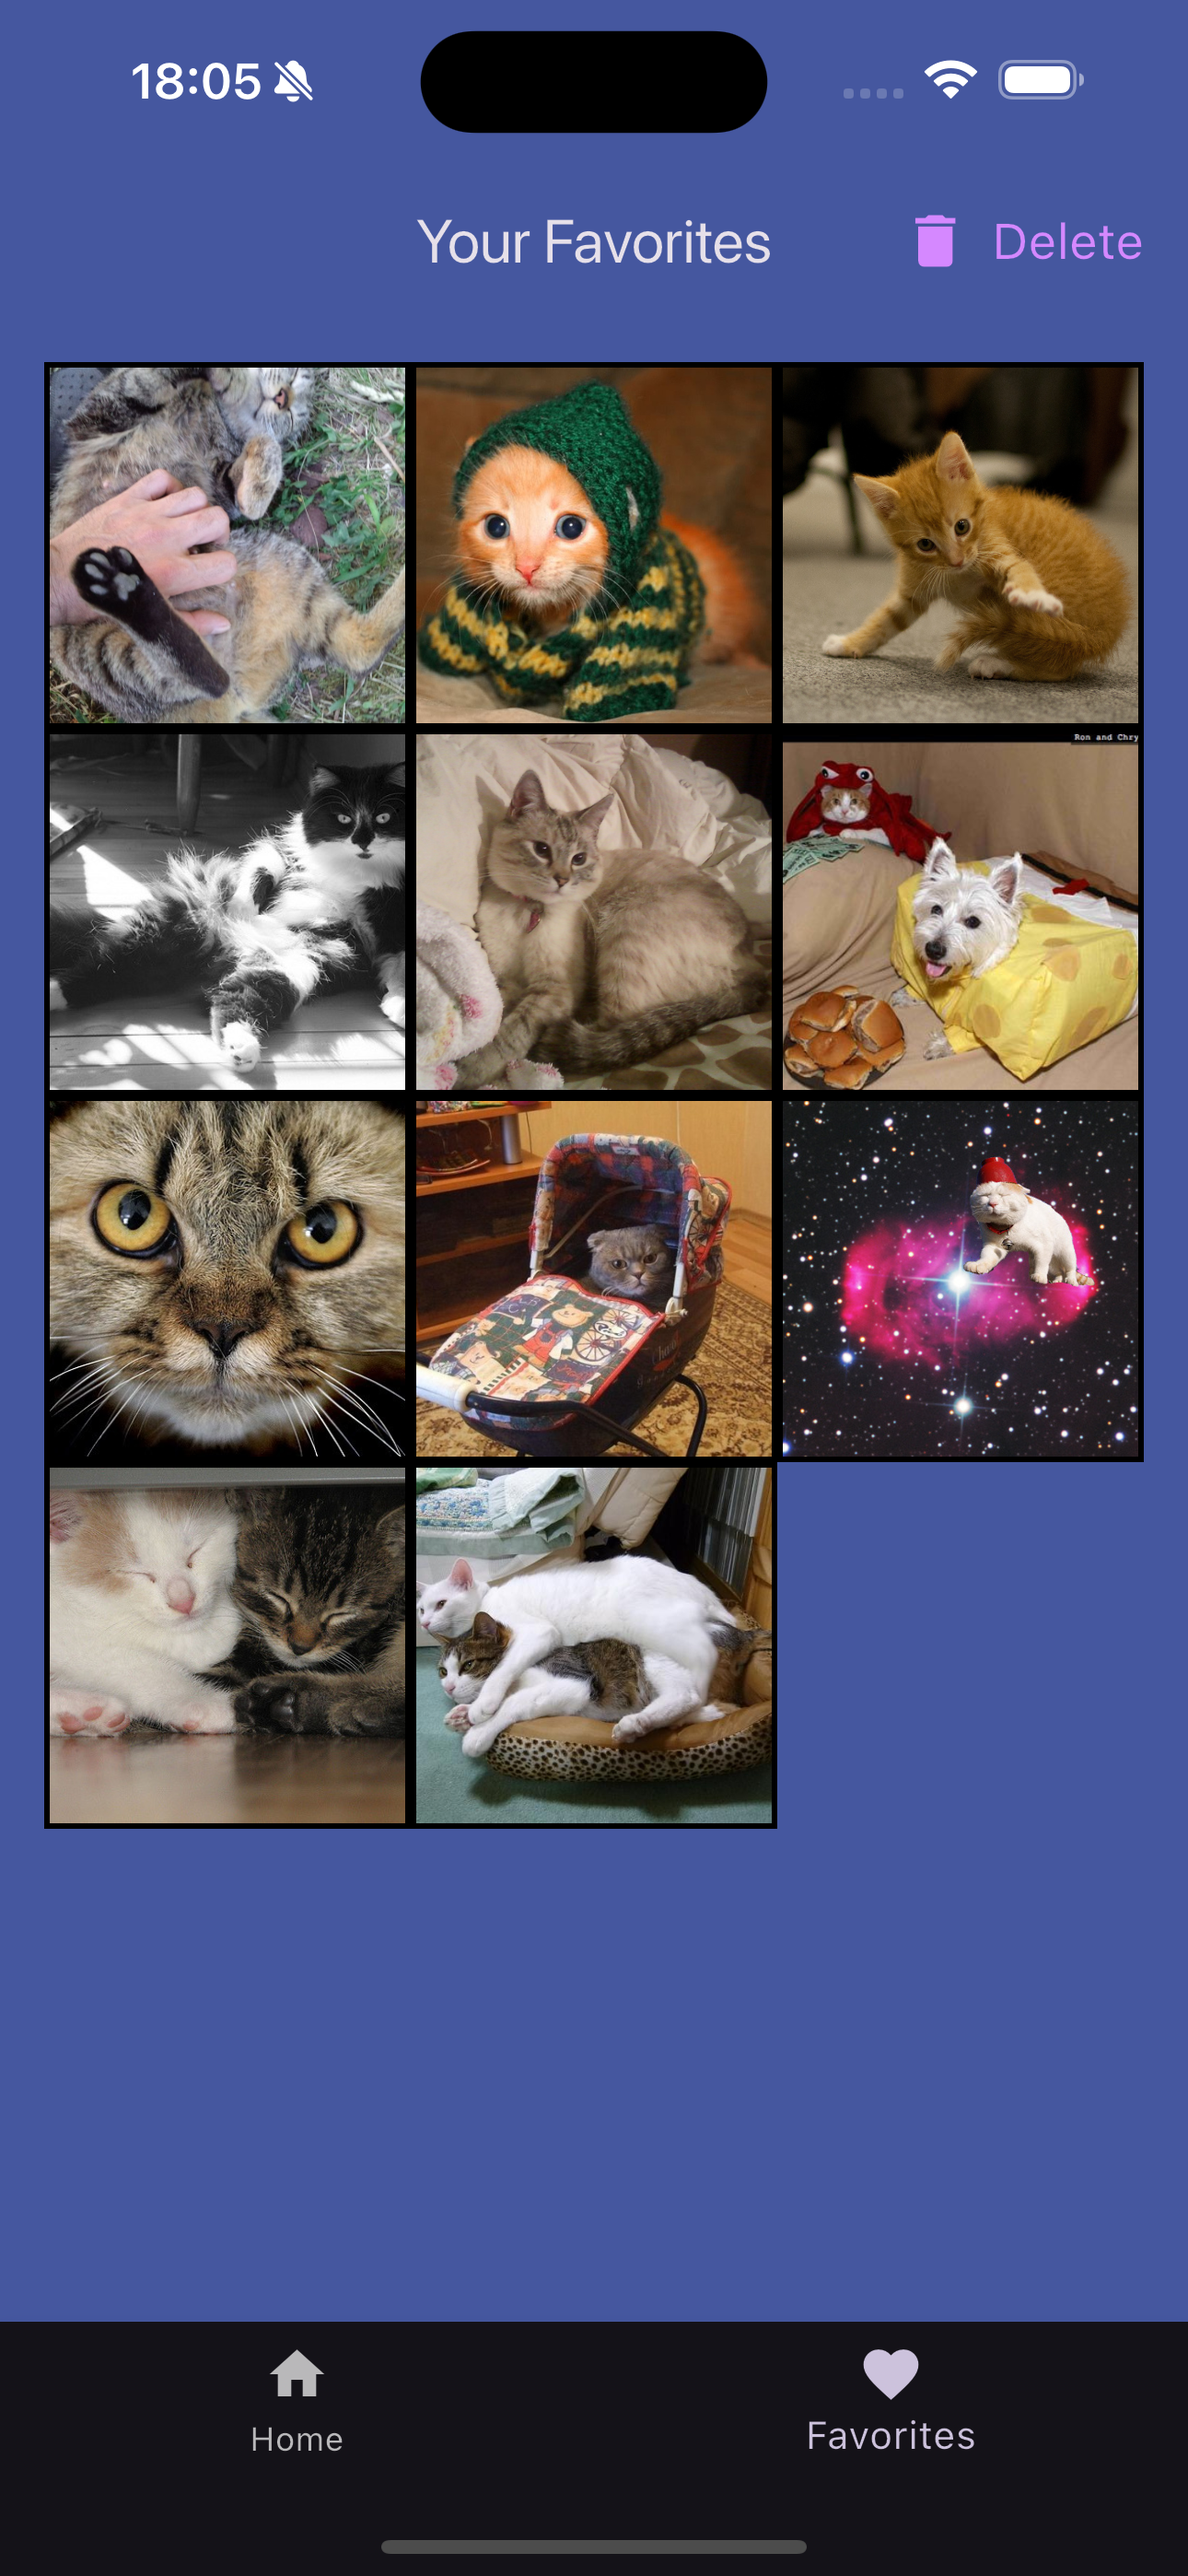
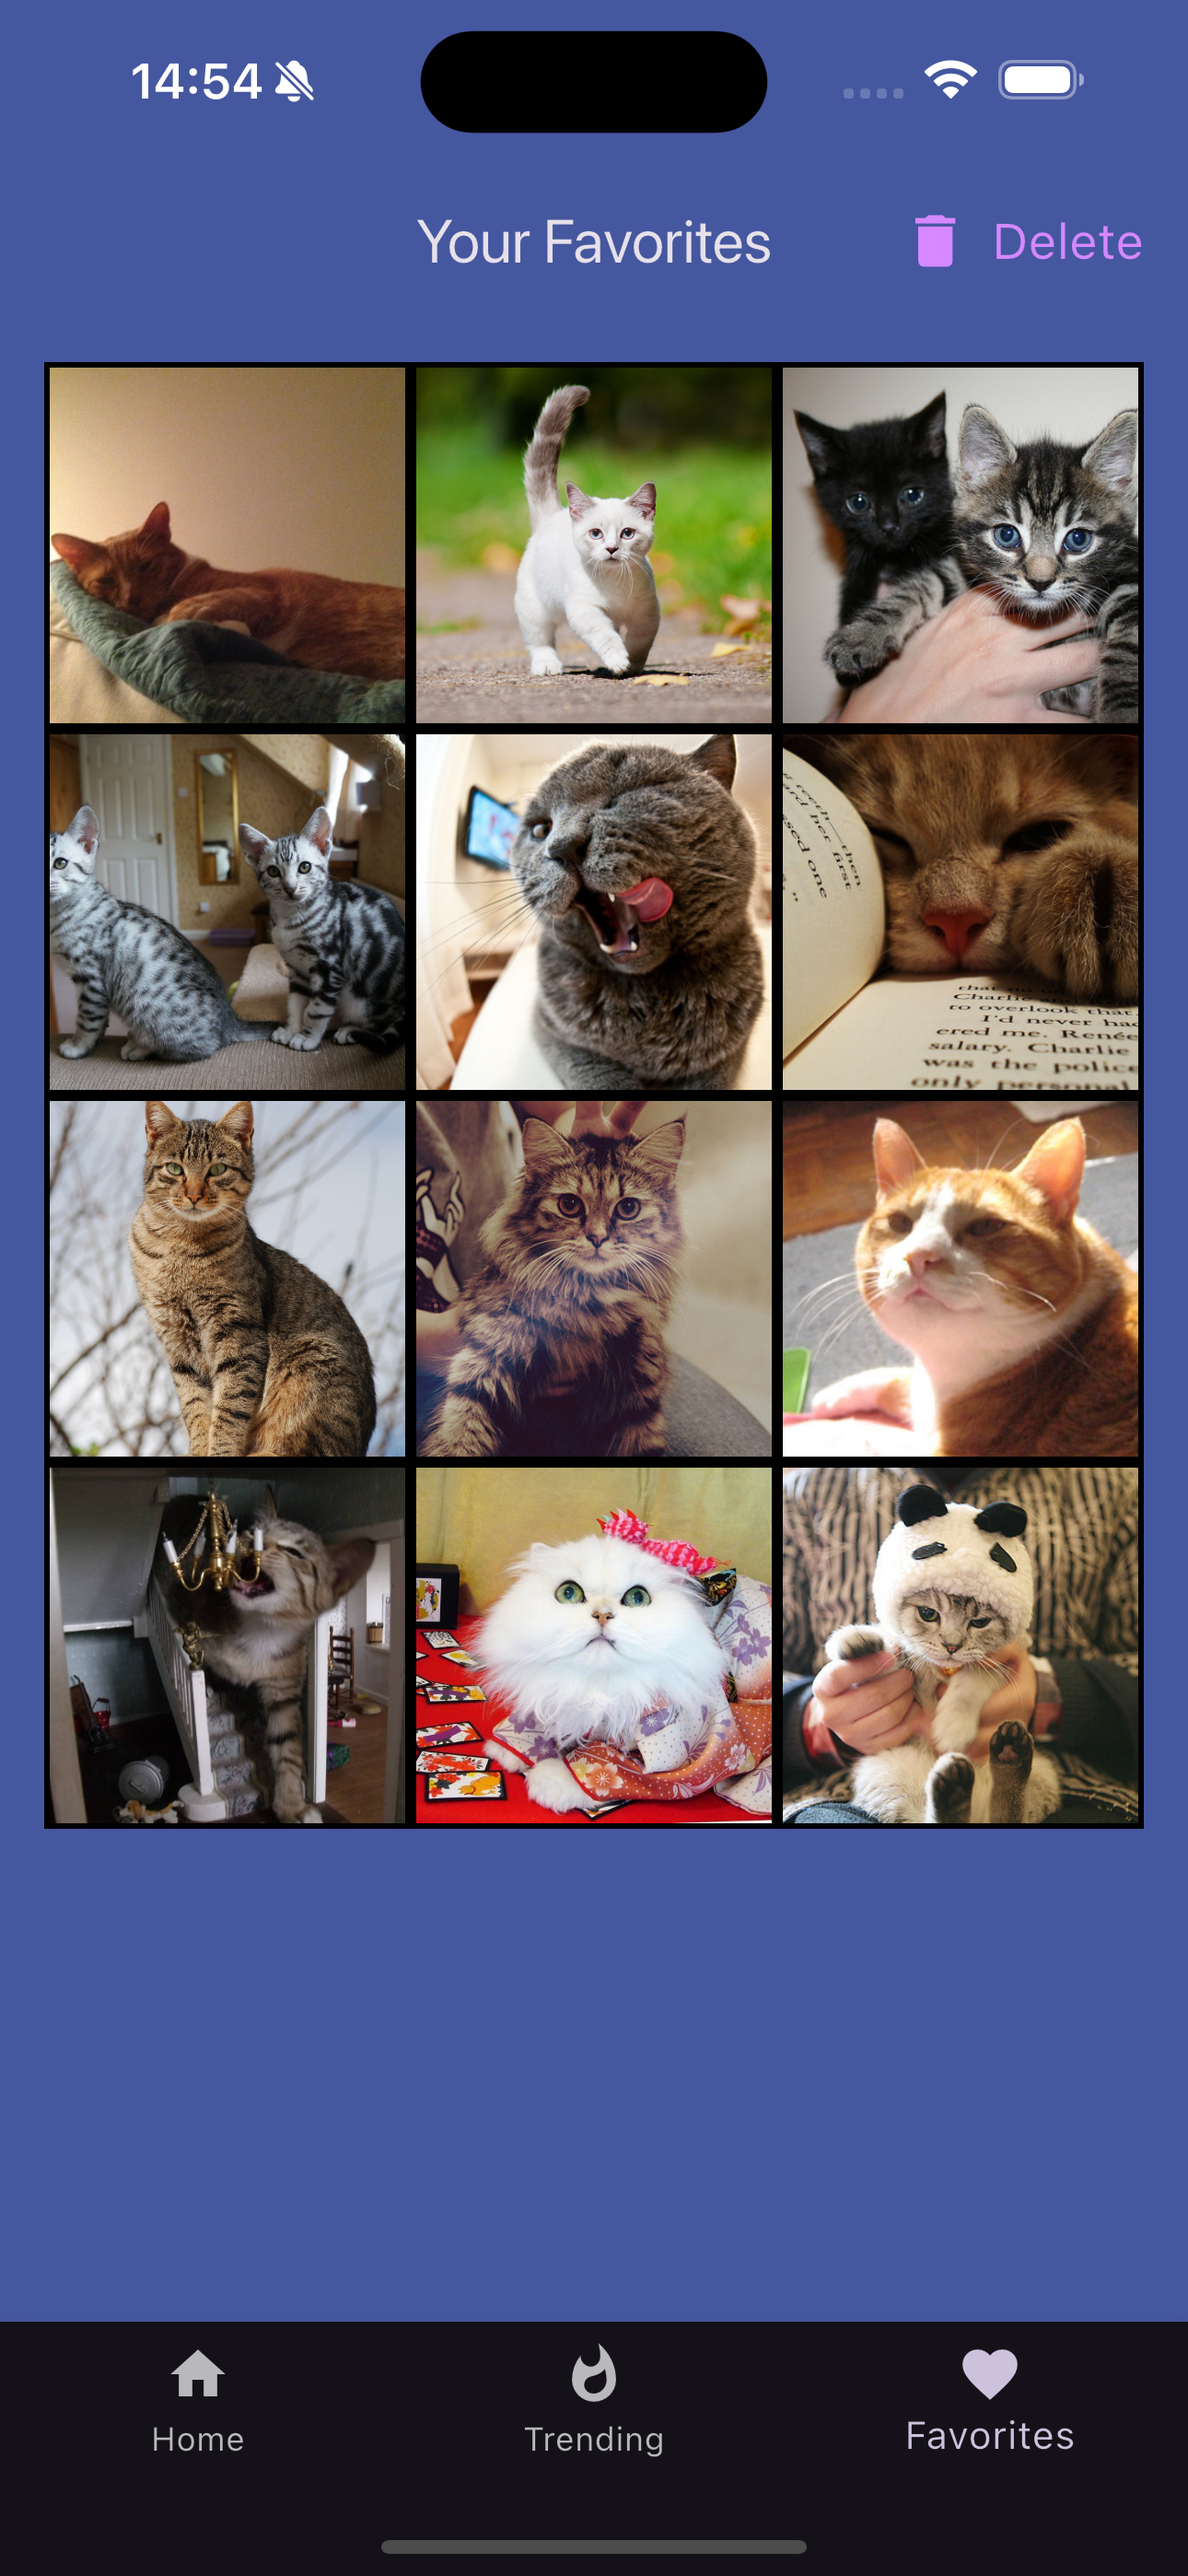
chore: update readme file and screenshots

diff --git a/README.md b/README.md
@@ -11,6 +11,7 @@ This app fetches random cat images from [The Cat API](https://api.thecatapi.com/
 - Sign in via Firebase Authentication.
 - Store favorites in Firestore tied to their user account.
 - Tap a button to get a description of the current cat image, powered by **Google Gemini**.
+- See the top ten most liked cat images
 
 ---
 
@@ -26,6 +27,9 @@ This app fetches random cat images from [The Cat API](https://api.thecatapi.com/
 <tr>
 <td><img src="assets/images/favorites_screen01.png" width="200"></td>
 <td><img src="assets/images/favorites_screen02.png" width="200"></td>
+</tr>
+<tr>
+<td><img src="assets/images/trending_page.png" width="200"></td>
 </tr>
 </table>
 
@@ -49,8 +53,8 @@ This app fetches random cat images from [The Cat API](https://api.thecatapi.com/
 ✅ Save images to personal favorites  
 ✅ View favorites in a gallery  
 ✅ Firebase user authentication  
-✅ Google sign-in  
-✅ "What am I looking at?" button – AI-powered image description  
+✅ "Cat Scanner" button – AI-powered image description  
+✅ Fetches and shows top ten most liked images
 ✅ Clean separation of logic, services, UI, and data layers
 
 ---
@@ -58,14 +62,13 @@ This app fetches random cat images from [The Cat API](https://api.thecatapi.com/
 ### 💡 Potential Improvements
 
 - Replace `Provider` with **Riverpod** for more scalable state management
-- Add offline support with local caching
 - Implement animations/transitions for smoother UX
-- Feed screen that shows which images are most popular among users
 
 ---
 
 ### 📁 Project Structure
 
+<pre lang="md">
 lib/
 ├── firebase_options.dart            # Firebase setup
 ├── main.dart                        # Entry point
@@ -76,9 +79,12 @@ lib/
     │   ├── ai_integration/          # Google Gemini integration
     │   ├── auth/                    # Auth logic and UI
     │   ├── favorites/               # Favorite cats gallery
-    │   └── fetch_images/            # Image fetching and home screen
+    │   ├── fetch_images/            # Image fetching and home screen
+    |   └── top_ten_images/          # Show the ten most liked images 
     ├── main_app.dart                # Root of the app widget
     └── navigation_scaffold.dart    # App-wide navigation structure
+</pre>
+
 
 
 ## 🔐 Environment Variables
